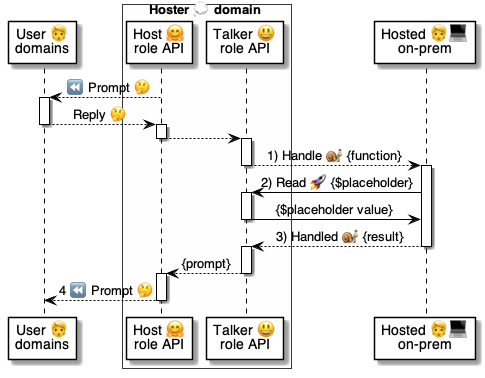
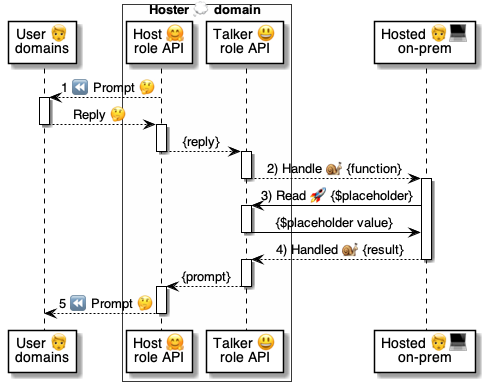
.

diff --git a/5 ⏩ Flows/79 😃⏩ Talkers/20 😃⏩🧑💻 Handle 🐍.md b/5 ⏩ Flows/79 😃⏩ Talkers/20 😃⏩🧑💻 Handle 🐍.md
@@ -11,4 +11,5 @@
 
 | # | Call | Description
 |-|-|-
-| 1 | 
+|1| [🤗⏩🧑🦰 Prompt 🤔](<../50 🤗⏩ Hosts/01 🤗⏩🧑🦰 Prompt 🤔.md>) | [Talkers 😃](<../../9 😃 Talkers/10 📘 Talker specs/01 😃 Talker.md>) handle replies to [Prompts 🤔](<../../9 😃 Talkers/50 🤔 Prompts/1 📘 Prompt specs/01 🤔 Prompt.md>)
+|
